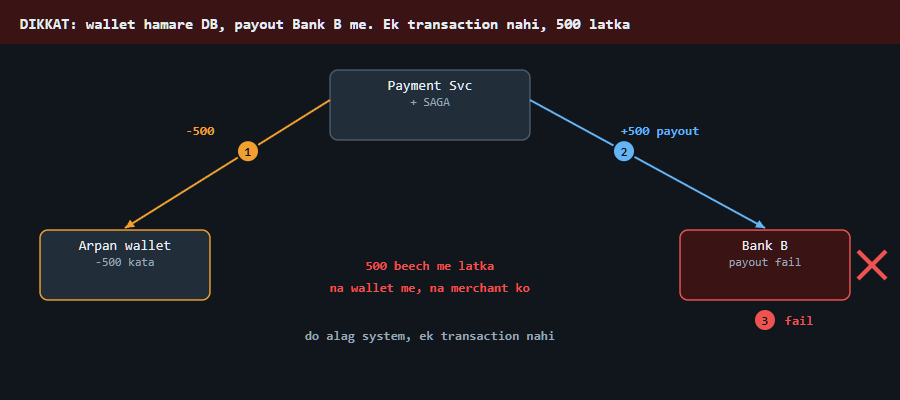
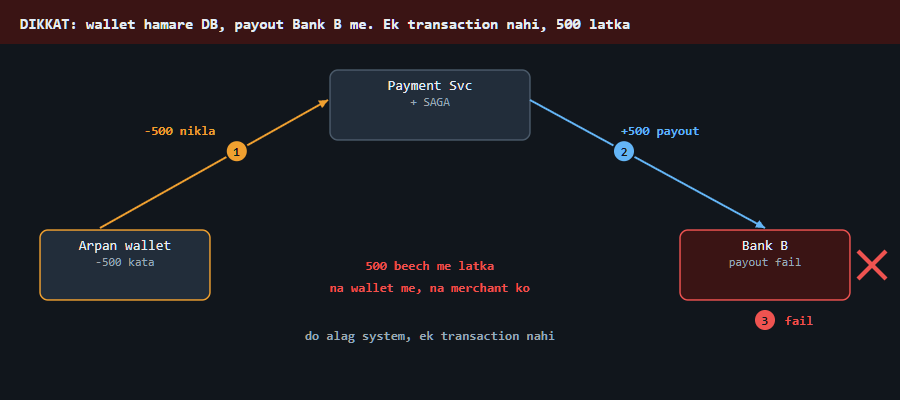
hld payment c6: -500 ka teer wallet se Payment Svc (sahi disha)

Changed region(s): [[0.0933, 0.3, 0.3111, 0.57], [0.3111, 0.24, 0.3733, 0.33]]

diff --git a/04_HLD/SYSTEM_DESIGNS/06_payment_system/img/c6_anim.html b/04_HLD/SYSTEM_DESIGNS/06_payment_system/img/c6_anim.html
@@ -157,7 +157,7 @@ function base(o = {}, s = {}, rows) {
 function frame(ph) {
   if (ph === 0) {
     base({ wl: 'acc', bk: 'bad' }, { wl: '-500 kata', bk: 'payout fail' });
-    A(330, 60, 125, 188, C.acc, { n: 1, at: 0.4 }); L(200, 95, '-500', C.acc);
+    A(100, 188, 328, 60, C.acc, { n: 1, at: 0.6 }); L(180, 95, '-500 nikla', C.acc);
     A(530, 60, 765, 188, C.msg, { n: 2, at: 0.4 }); L(660, 95, '+500 payout', C.msg);
     num(765, 280, 3, C.bad); L(785, 285, 'fail', C.bad, 'start'); cross(872, 225);
     L(430, 230, '500 beech me latka', C.bad); L(430, 252, 'na wallet me, na merchant ko', C.bad);
@@ -165,14 +165,14 @@ function frame(ph) {
   } else if (ph === 1) {
     base({ wl: 'good', bk: 'bad' }, { wl: '500 wapas', bk: 'payout fail' },
       [['1. DEBITED (-500)', C.acc], ['2. PAYOUT: fail', C.bad], ['3. ulta: +500 wapas', C.good]]);
-    A(330, 60, 125, 188, C.acc, { n: 1, at: 0.4 }); L(200, 95, '-500', C.acc);
+    A(100, 188, 328, 60, C.acc, { n: 1, at: 0.6 }); L(180, 95, '-500 nikla', C.acc);
     A(530, 60, 765, 188, C.msg, { n: 2, at: 0.4 }); L(660, 95, '+500 payout', C.msg);
     num(765, 280, 3, C.bad); L(785, 285, 'fail', C.bad, 'start'); cross(872, 225);
     A(345, 100, 160, 188, C.good, { n: 4, at: 0.6 }); L(290, 170, '+500 wapas', C.good, 'start');
     A(430, 100, 430, 188, C.line); L(440, 150, 'har kadam likha', C.muted, 'start');
   } else if (ph === 2) {
     base({ sv: 'bad', wl: 'acc' }, { wl: '-500 kata' }, [['1. DEBITED (-500)', C.acc], ['2. PAYOUT: ?', C.muted]]);
-    A(330, 60, 125, 188, C.acc, { n: 1, at: 0.4 }); L(200, 95, '-500', C.acc);
+    A(100, 188, 328, 60, C.acc, { n: 1, at: 0.6 }); L(180, 95, '-500 nikla', C.acc);
     num(560, 40, 2, C.bad); L(578, 45, 'service giri', C.bad, 'start'); cross(555, 85);
     A(450, 188, 450, 102, C.good, { n: 3 }); L(470, 150, 'uth ke saga table dekha', C.good, 'start');
     L(440, 345, 'hal: wahin se aage badhe ya ulta kare', C.good);

diff --git a/04_HLD/SYSTEM_DESIGNS/06_payment_system/img/c6_anim.js b/04_HLD/SYSTEM_DESIGNS/06_payment_system/img/c6_anim.js
@@ -22,7 +22,7 @@ function base(o = {}, s = {}, rows) {
 function frame(ph) {
   if (ph === 0) {
     base({ wl: 'acc', bk: 'bad' }, { wl: '-500 kata', bk: 'payout fail' });
-    A(330, 60, 125, 188, C.acc, { n: 1, at: 0.4 }); L(200, 95, '-500', C.acc);
+    A(100, 188, 328, 60, C.acc, { n: 1, at: 0.6 }); L(180, 95, '-500 nikla', C.acc);
     A(530, 60, 765, 188, C.msg, { n: 2, at: 0.4 }); L(660, 95, '+500 payout', C.msg);
     num(765, 280, 3, C.bad); L(785, 285, 'fail', C.bad, 'start'); cross(872, 225);
     L(430, 230, '500 beech me latka', C.bad); L(430, 252, 'na wallet me, na merchant ko', C.bad);
@@ -30,14 +30,14 @@ function frame(ph) {
   } else if (ph === 1) {
     base({ wl: 'good', bk: 'bad' }, { wl: '500 wapas', bk: 'payout fail' },
       [['1. DEBITED (-500)', C.acc], ['2. PAYOUT: fail', C.bad], ['3. ulta: +500 wapas', C.good]]);
-    A(330, 60, 125, 188, C.acc, { n: 1, at: 0.4 }); L(200, 95, '-500', C.acc);
+    A(100, 188, 328, 60, C.acc, { n: 1, at: 0.6 }); L(180, 95, '-500 nikla', C.acc);
     A(530, 60, 765, 188, C.msg, { n: 2, at: 0.4 }); L(660, 95, '+500 payout', C.msg);
     num(765, 280, 3, C.bad); L(785, 285, 'fail', C.bad, 'start'); cross(872, 225);
     A(345, 100, 160, 188, C.good, { n: 4, at: 0.6 }); L(290, 170, '+500 wapas', C.good, 'start');
     A(430, 100, 430, 188, C.line); L(440, 150, 'har kadam likha', C.muted, 'start');
   } else if (ph === 2) {
     base({ sv: 'bad', wl: 'acc' }, { wl: '-500 kata' }, [['1. DEBITED (-500)', C.acc], ['2. PAYOUT: ?', C.muted]]);
-    A(330, 60, 125, 188, C.acc, { n: 1, at: 0.4 }); L(200, 95, '-500', C.acc);
+    A(100, 188, 328, 60, C.acc, { n: 1, at: 0.6 }); L(180, 95, '-500 nikla', C.acc);
     num(560, 40, 2, C.bad); L(578, 45, 'service giri', C.bad, 'start'); cross(555, 85);
     A(450, 188, 450, 102, C.good, { n: 3 }); L(470, 150, 'uth ke saga table dekha', C.good, 'start');
     L(440, 345, 'hal: wahin se aage badhe ya ulta kare', C.good);
